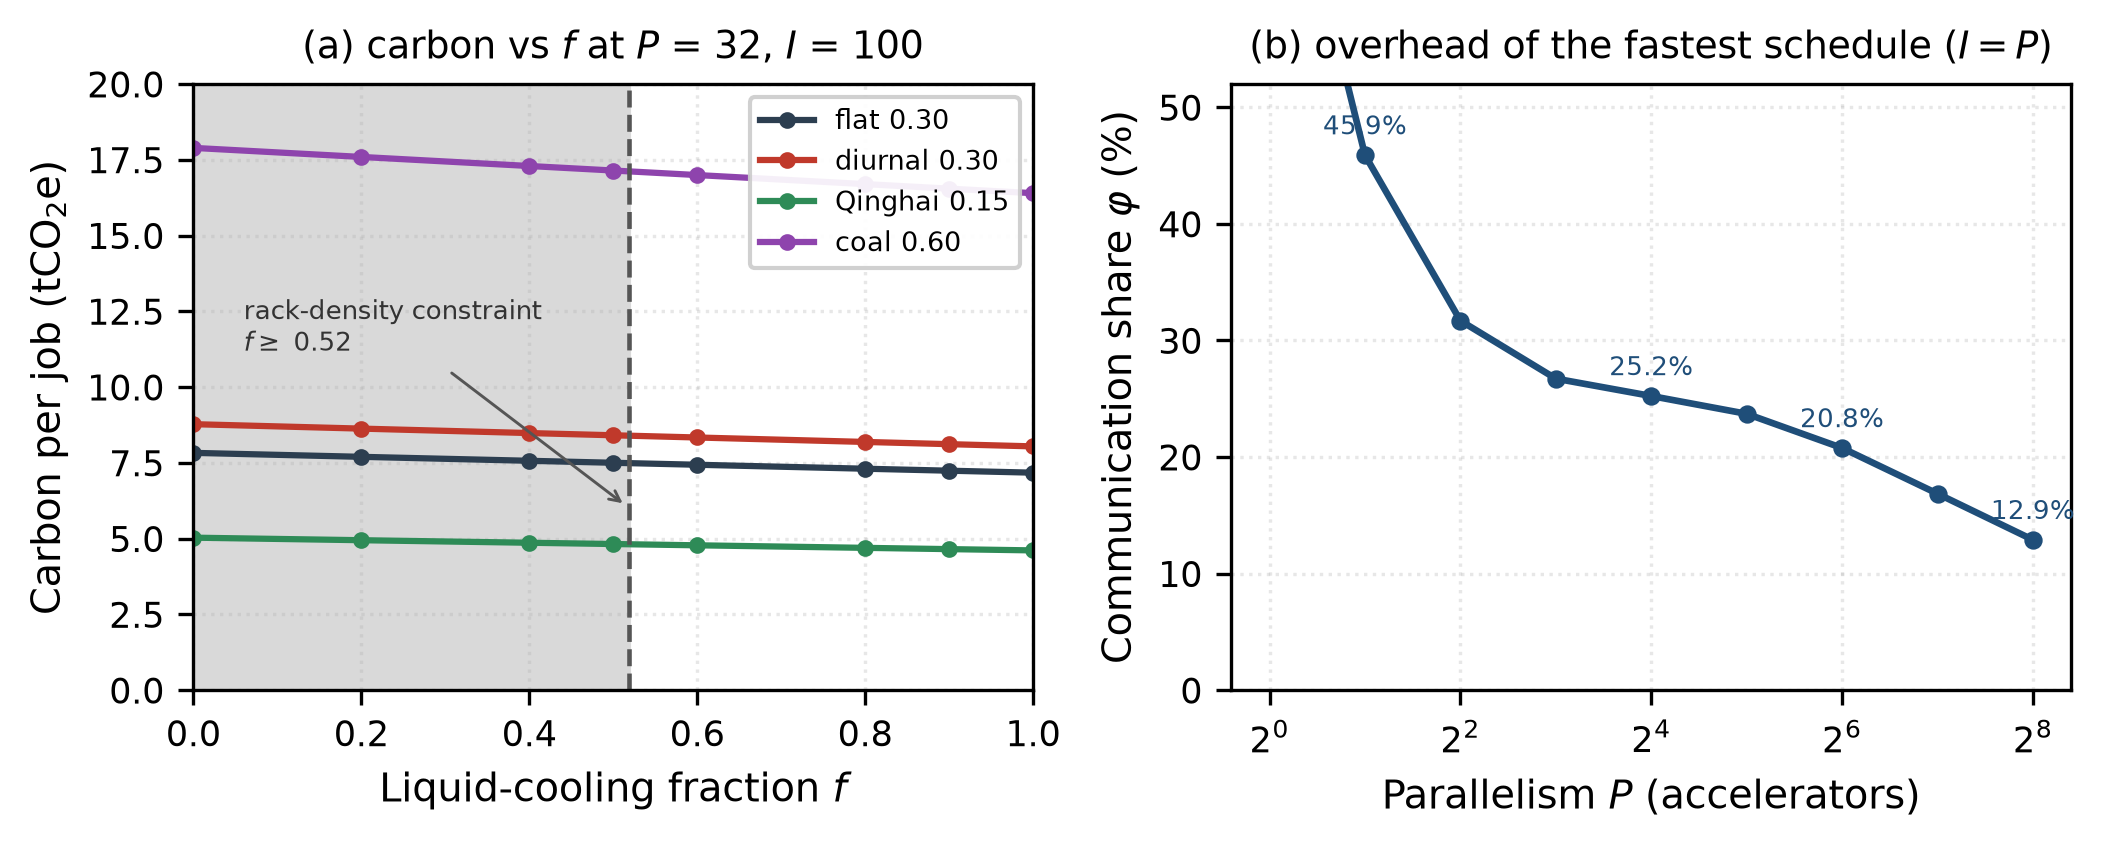
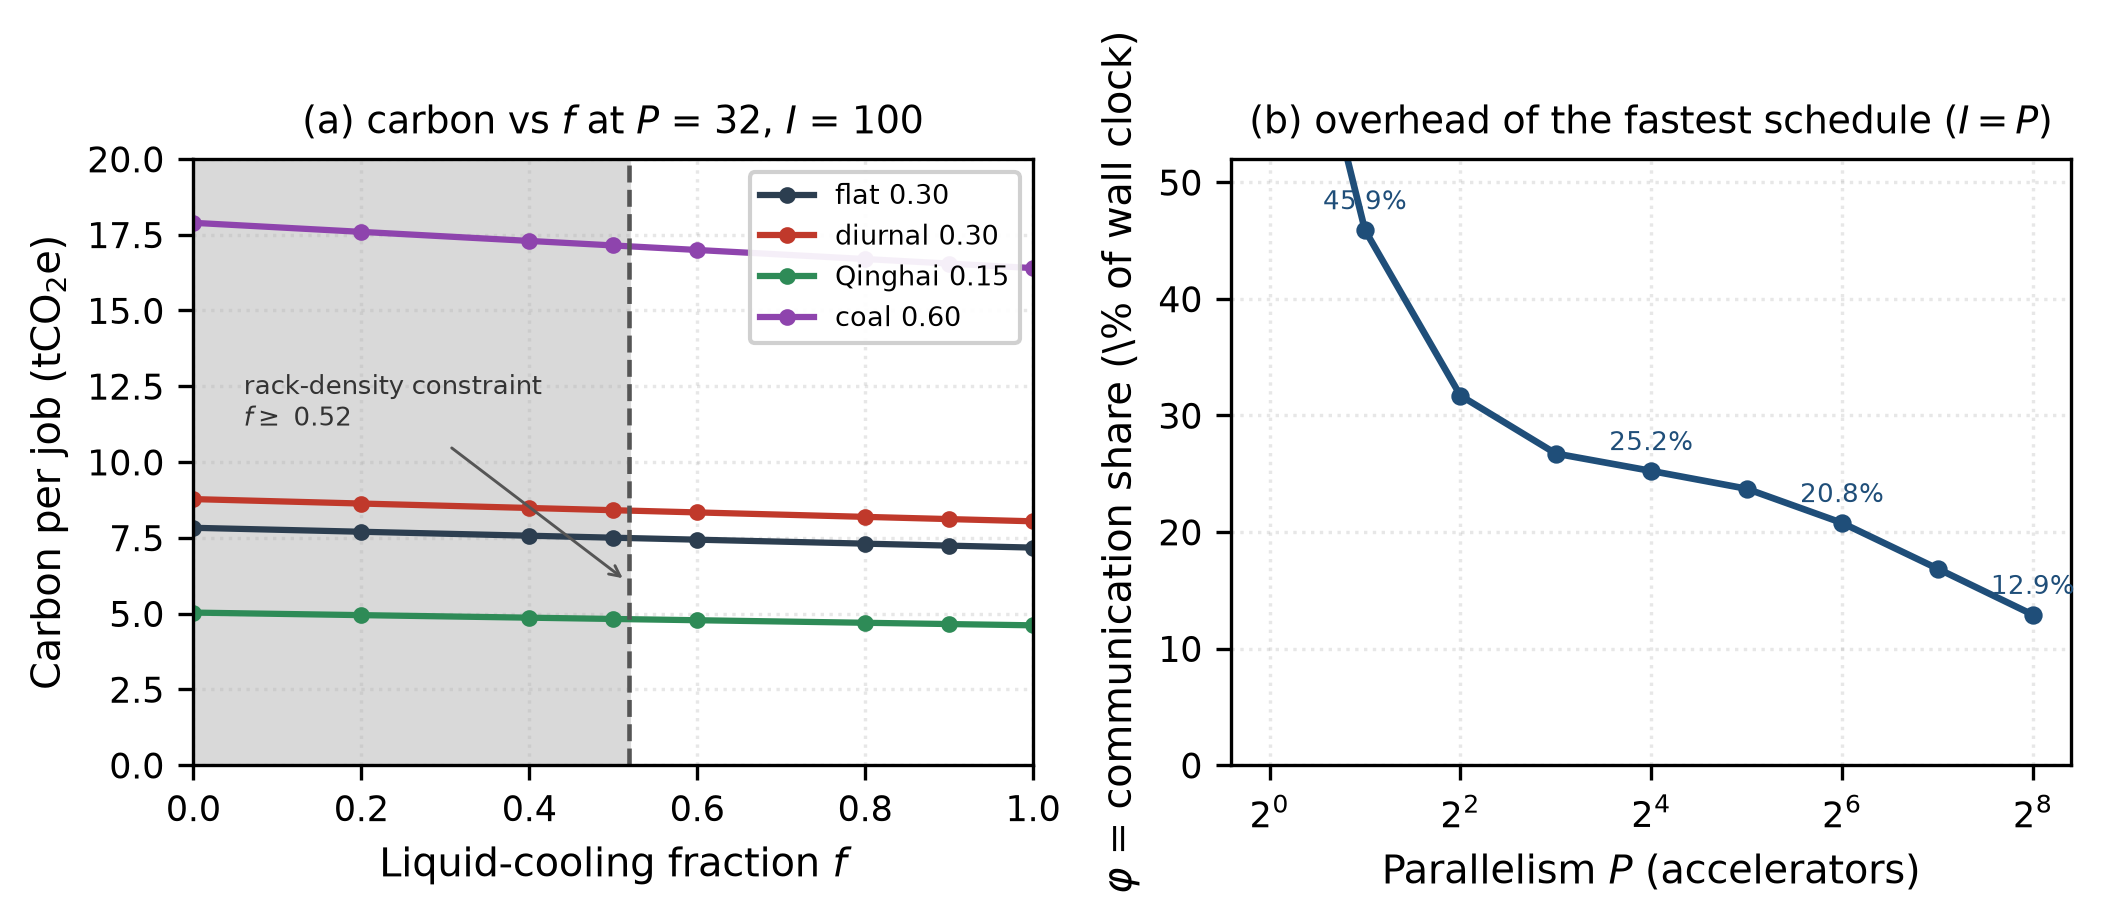
Polish figures and add a --no-figures mode to the annual run
- annual_simulation.py gains --no-figures, so the annual table can be
  recomputed without re-rendering figures 11-13.  Those three PNGs are the
  versions embedded in the published preprint; a different matplotlib build
  re-renders them a few pixels wider, which showed up as spurious binary churn.
- fig16: axis label spelled out (varphi is the communication share of wall
  clock), and panel (b) now plots the fastest feasible schedule I = P from the
  model instead of sampling the scan grid, which was zig-zagging between grid
  values.
- fig17: the scheduling annotation was colliding with the flat-grid reference
  line and with the panel titles; it is now inside the axes.

diff --git a/code/annual_simulation.py b/code/annual_simulation.py
@@ -20,6 +20,10 @@ Model per hour h:
 Weather location: set the HDC_WEATHER environment variable, or place the .epw
 files in <repository>/weather/<site>/.  When a file is missing the sinusoidal
 fallback climate is used and the console says so, so the script always runs.
+
+Pass --no-figures to recompute only the annual table and leave figures 11-13
+untouched (they are the versions embedded in the published preprint; a different
+matplotlib build re-renders them a few pixels wider).
 """
 import os
 import sys
@@ -33,6 +37,7 @@ import numpy as np
 
 import cooling_model as cm
 
+WRITE_FIGURES = "--no-figures" not in sys.argv
 FIG = cm.FIGURE_DIR
 cm.apply_style()
 
@@ -80,7 +85,8 @@ ax.set_xlabel("Hours per year exceeded (thousands)")
 ax.set_ylabel("Dry-bulb temperature ($^\\circ$C)")
 ax.set_xlim(0, 8.76); ax.set_ylim(-25, 42)
 ax.legend(loc="upper right", framealpha=0.9)
-cm.save(fig, "fig11_temperature_duration_curves.png")
+if WRITE_FIGURES:
+    cm.save(fig, "fig11_temperature_duration_curves.png")
 
 # ------------------------------------------------------------------ Fig. 12 annual PUE vs f
 fig, ax = plt.subplots(figsize=(3.8, 2.9))
@@ -97,7 +103,8 @@ ax.set_xlabel("Liquid-cooling fraction $f$")
 ax.set_ylabel("Annual average PUE (8760 h)")
 ax.set_xlim(0, 1); ax.set_ylim(1.10, 1.40)
 ax.legend(loc="upper right", framealpha=0.9)
-cm.save(fig, "fig12_annual_pue_tmy.png")
+if WRITE_FIGURES:
+    cm.save(fig, "fig12_annual_pue_tmy.png")
 
 # ------------------------------------------------------------------ Fig. 13 free cooling + model check
 fig, axes = plt.subplots(1, 2, figsize=(7.0, 2.7))
@@ -141,7 +148,8 @@ axes[1].set_ylabel("Measured TMYx weather (%)")
 axes[1].set_xlim(lim); axes[1].set_ylim(lim)
 axes[1].text(0.03, 0.92, "dashed line = perfect agreement", transform=axes[1].transAxes,
              fontsize=6.3, color="#666")
-cm.save(fig, "fig13_free_cooling_validation.png")
+if WRITE_FIGURES:
+    cm.save(fig, "fig13_free_cooling_validation.png")
 
 # ------------------------------------------------------------------ results table
 print("\n=== Annual simulation results (TMYx 2011-2025, 8760 h) ===")
@@ -165,4 +173,5 @@ path = cm.write_csv("annual_sim_results.csv",
                      "air_free_cooling_pct", "liquid_free_cooling_pct",
                      "PUE_f0", "PUE_f0.8", "PUE_f1"], rows)
 print(f"\ntable: {path}")
-print("figures: fig11, fig12, fig13")
+print("figures: fig11, fig12, fig13" if WRITE_FIGURES
+      else "figures: skipped (--no-figures)")
